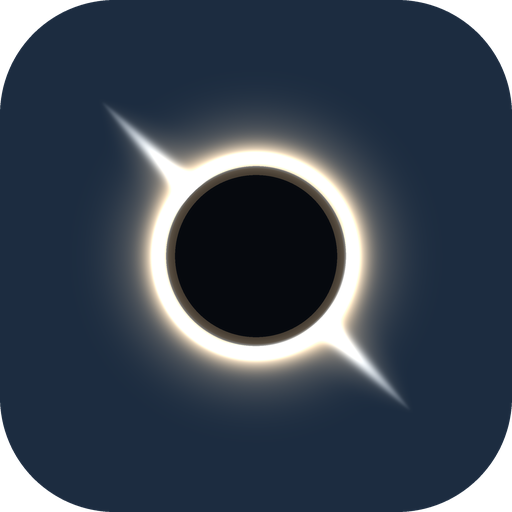
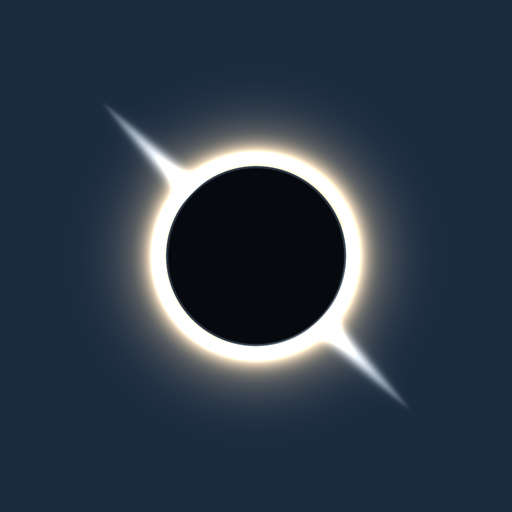
自适应图标：前景带透明、辉光不再画进阴影、maskable 满幅
审查发现的三处真问题：
- 前景层 RGB→RGBA 转换让 alpha 恒为 255，Android 8+ 一直显示黑块盖住新底色
- 新增 bloom 的遮罩是 RD*0.9，把光画进了洞的内部，剪影被糊掉
- manifest 声明 maskable 却带透明圆角；升级时 syncAssets 跳过已存在文件，
  老用户永远拿不到新图标

版本 1.2.7 / versionCode 20；页面未改，build 退回 120 以免白白重下 21MB。

diff --git a/tools/icon2.py b/tools/icon2.py
@@ -73,17 +73,25 @@ def render(size, with_bg=True, beam=True):
     out = bg
     out = out + (ring_col - out) * np.clip(ring * 1.9, 0, 1)[:, :, None]
     out = out + HOT[None, None, :] * (streak * 1.15)[:, :, None]
-    out = out + WARM[None, None, :] * (bloom if beam else 0)[:, :, None]
+    out = out + WARM[None, None, :] * ((bloom if beam else np.zeros_like(bloom)) * 0.30)[:, :, None]
     out = out + (DEEP - out) * shadow[:, :, None]
     # the ring's own faint glow, hugging the horizon
     glow = np.exp(-((R - RING) / 3.4) ** 2) * (R > RD)
     out = out + WARM[None, None, :] * (glow * 0.55)[:, :, None]
 
+    # the glow belongs to both layers: on the adaptive foreground it is the only
+    # thing that makes the ring read as light rather than as a drawn circle
+    bloom = np.exp(-((R - RING) / 9.0) ** 2) * (R > RD)
+    core = np.exp(-((R - RING) / 2.0) ** 2) * (R > RD - 0.5)
+    out = out + WARM[None, None, :] * (bloom * 0.30)[:, :, None]
+    out = out + HOT[None, None, :] * (core * 0.28)[:, :, None]
+    out = np.clip(out, 0, 255)
     if with_bg:
-        bloom = np.exp(-((R - RING) / 9.0) ** 2) * (R > RD * 0.9)
-        out = out + WARM[None, None, :] * (bloom * 0.28)[:, :, None]
-        out = out + HOT[None, None, :] * (np.exp(-((R - RING) / 2.0) ** 2) * 0.25)[:, :, None]
-    img = Image.fromarray(np.clip(out, 0, 255).astype(np.uint8), "RGB").convert("RGBA")
+        img = Image.fromarray(np.clip(out, 0, 255).astype(np.uint8), "RGB").convert("RGBA")
+    else:
+        cov = np.clip(ring * 1.9 + streak * 1.15 + bloom * 1.25 + core * 0.9, 0, 1)
+        rgba = np.dstack([np.clip(out, 0, 255), cov * 255.0]).astype(np.uint8)
+        img = Image.fromarray(rgba, "RGBA")
     if beam and with_bg:
         pass
     return img
@@ -99,9 +107,13 @@ def squircle_mask(S, mode="squircle"):
     return m
 
 
-def icon(size, mode="squircle"):
+def icon(size, mode="squircle", bleed=False):
     S = size * 4
     img = render(size, True)
+    if bleed:
+        # manifest declares purpose "any maskable": the platform crops it itself,
+        # so baked-in rounded corners become transparent notches
+        return img.resize((size, size), Image.LANCZOS)
     out = Image.new("RGBA", (S, S), (0, 0, 0, 0))
     out.paste(img, (0, 0), squircle_mask(S, mode))
     return out.resize((size, size), Image.LANCZOS)
@@ -142,6 +154,6 @@ if __name__ == "__main__":
         icon(px, "circle").save(os.path.join(folder, "ic_launcher_round.png"))
         foreground(FORE[dpi]).save(os.path.join(folder, "ic_launcher_foreground.png"))
         mono(FORE[dpi]).save(os.path.join(folder, "ic_launcher_mono.png"))
-    icon(192).save(os.path.join(ROOT, "icon-192.png"))
-    icon(512).save(os.path.join(ROOT, "icon-512.png"))
+    icon(192, bleed=True).save(os.path.join(ROOT, "icon-192.png"))
+    icon(512, bleed=True).save(os.path.join(ROOT, "icon-512.png"))
     print("icons written to", RES)

diff --git a/android/app/src/main/java/com/starfield/focus/MainActivity.java b/android/app/src/main/java/com/starfield/focus/MainActivity.java
@@ -150,7 +150,12 @@ public class MainActivity extends AppCompatActivity {
         for (String name : MIRRORED_ASSETS) {
             try {
                 File out = new File(getFilesDir(), name);
-                if (out.exists() && out.length() > 0) continue;
+                long assetLen = -1;
+                try (InputStream probe = getAssets().open(name)) { assetLen = probe.available(); }
+                catch (Exception ignored) {}
+                // Copy when the asset changed: the old "skip if it exists" left the
+                // previous icon and version.json in place forever after an upgrade.
+                if (out.exists() && out.length() > 0 && (assetLen <= 0 || out.length() == assetLen)) continue;
                 if (out.getParentFile() != null) out.getParentFile().mkdirs();
                 try (InputStream in = getAssets().open(name)) {
                     copyStream(in, out);
